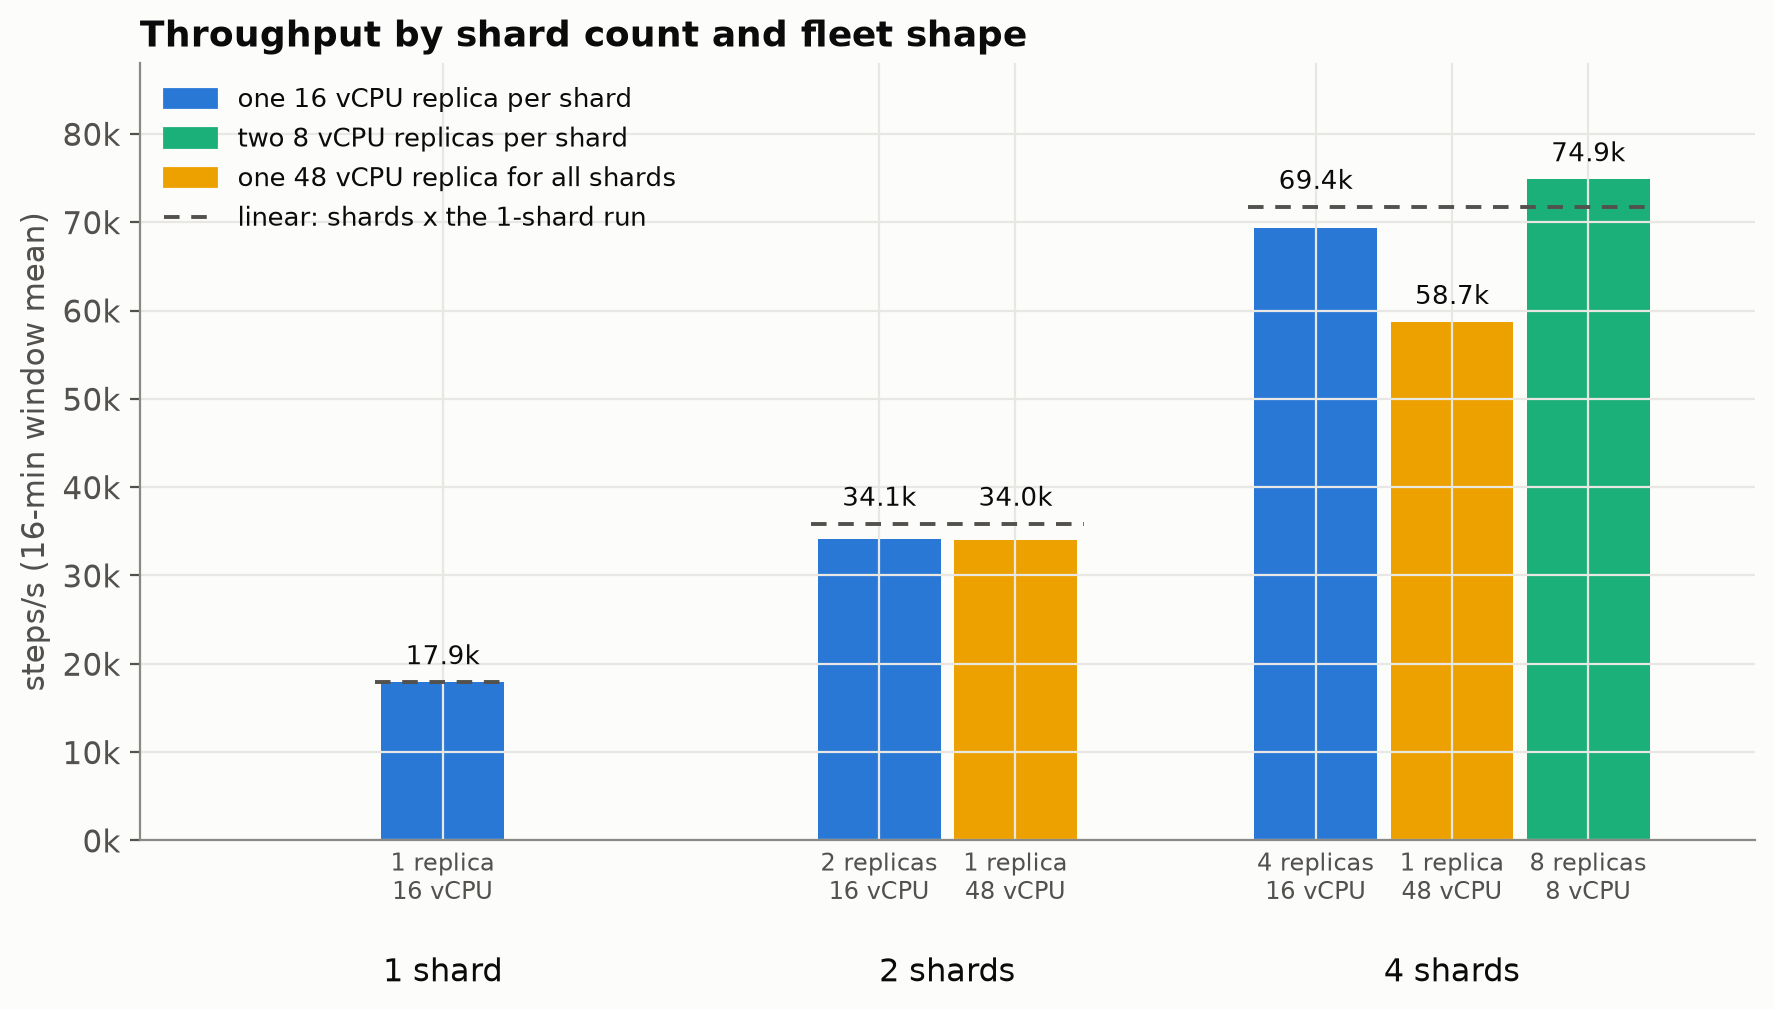
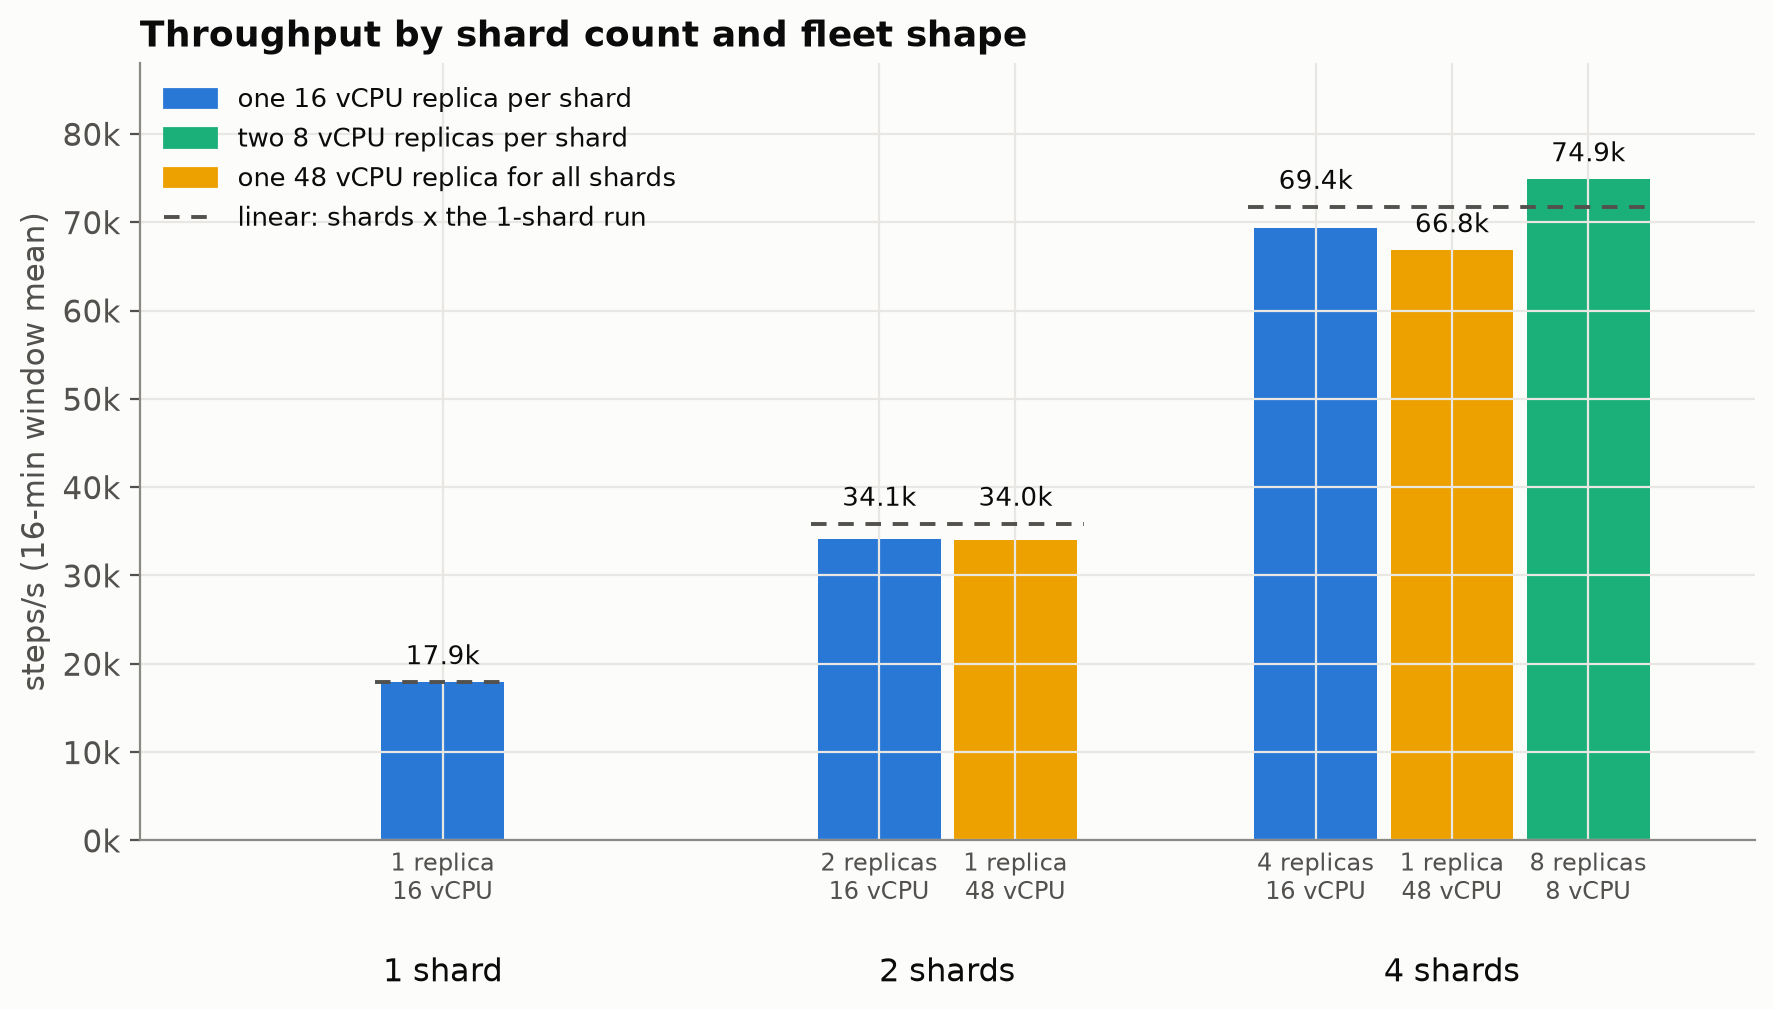
docs: one engine serves four shards at their databases' pace
One 48 vCPU engine now runs four 32 vCPU shards at 66,843 steps/s, steady over
the window, on 20 of its cores, where it had stopped at 58,719 below database
saturation. The benchmark page and deployment's reference configurations
drop the "add replicas rather than a bigger host" advice for a sizing rule: an
engine core per ~3,300 steps/s its shards can deliver, and GOMAXPROCS capped
to that on a large host, since Go's garbage collection takes a larger share
of CPU the more cores it may use. GOGC is mentioned with its one measurement,
on an earlier build.

The shards and engine-host charts carry the new 4-shard point; the engine-host
chart drops the 2-shard 48 vCPU point measured before the worker-routing fix.
Known gaps swap the single-engine cap for the unmeasured GOMAXPROCS cap.

Measured 2026-10-12 on 751647e (rig N): every shard at 16,700 steps/s, the
slowest database pacing the rest through the load generator's shared cap.

Changed region(s): [[0.7751, 0.2151, 0.8681, 0.338]]

diff --git a/bench/charts_cloud.py b/bench/charts_cloud.py
@@ -94,7 +94,7 @@ ONE_SHARD = 17938
 SHARD_GROUPS = [  # (shards, [(steps/s, tick label, colour)])
     (1, [(17938, "1 replica\n16 vCPU", S1)]),
     (2, [(34115, "2 replicas\n16 vCPU", S1), (34049, "1 replica\n48 vCPU", S3)]),
-    (4, [(69382, "4 replicas\n16 vCPU", S1), (58719, "1 replica\n48 vCPU", S3), (74879, "8 replicas\n8 vCPU", S2)]),
+    (4, [(69382, "4 replicas\n16 vCPU", S1), (66843, "1 replica\n48 vCPU", S3), (74879, "8 replicas\n8 vCPU", S2)]),
 ]
 
 
@@ -139,7 +139,7 @@ ENGINE_HOSTS = [
     (16, 17502, 5.32, 11.3), (16, 32564, 10.3, 11.7),
     (8, 8455, 2.47, 14.6), (8, 9684, 2.97, 10.8), (8, 9770, 2.83, 11.4), (8, 9762, 2.86, 11.0),
     (8, 9491, 2.86, 11.0), (8, 9545, 2.87, 10.8), (8, 9837, 2.75, 11.4), (8, 8385, 2.33, 11.2),
-    (48, 34049, 14.79, 20.2), (48, 58696, 20.05, 22.3),
+    (48, 66843, 20.0, 21.3),
     (2, 2010, 0.71, 10.7), (4, 3816, 1.27, 11.1), (2, 2049, 0.7, 9.7), (4, 3892, 1.32, 10.1),
 ]
 

diff --git a/docs/benchmark-cloud.md b/docs/benchmark-cloud.md
@@ -25,8 +25,9 @@
   paused for ~40 s, standby replicas took over, and every flow completed.
 - **Keep the engine near its database.** A step makes about five round trips, so distance costs throughput;
   the engine opens more connections as distance grows, which recovers most of it out to 1 ms.
-- **Prefer more, smaller engine hosts.** One engine serves up to two shards at full speed; past that, add
-  replicas. On a 48 vCPU host the engine spends up to 40% more CPU per step than on 8 or 16 vCPU hosts.
+- **One large engine host can serve several shards.** One 48 vCPU engine ran four 32 vCPU shards at their
+  databases' pace on 20 of its cores. Size its CPU from what the shards can deliver, and on a large host cap
+  `GOMAXPROCS` to that: garbage collection takes about twice the share of CPU on 48 vCPU as on 2–16.
 
 [Sizing a deployment](#sizing-a-deployment) turns these into a recipe.
 
@@ -146,14 +147,19 @@ The same shard counts, served by a single replica:
 |---|---|---|---|---|
 | 2 | 16 vCPU | 32,564 | 10.3 of 16 cores | saturated |
 | 2 | 48 vCPU | 34,049 | 14.8 of 48 cores | saturated |
-| 4 | 48 vCPU | **58,719 (×3.27)** | 20.1 of 48 cores | below saturation |
+| 4 | 48 vCPU | **66,843 (×3.73)** | 20.0 of 48 cores | slowest saturated |
 
 - **One engine serves two shards at full speed**, even on a 16 vCPU host, with a third of its CPU to
   spare.
-- **At four shards one engine is the limit.** It delivered 58,719 steps/s while the databases ran below
-  saturation and the host had more than half its CPU free. It started near 67,000 and settled about 17%
-  lower over the window. Four replicas on the same four shards ran 69,382, and eight ran 74,879. Beyond
-  two shards per replica, add replicas rather than a bigger host.
+- **One engine runs four shards at their databases' pace.** It delivered 66,843 steps/s, steady from
+  minute to minute, with 28 of its 48 cores idle. Four replicas on four shards ran 69,382 and eight ran 74,879,
+  each on its own set of instances; the gap is within the spread between instances of one size.
+- **The slowest database set every shard's pace in this run.** All four ran at 16,700 steps/s, because
+  the load generator places flows evenly and caps flows in flight across all shards: the slowest shard's
+  flows stay in flight longest and fill that shared cap. Shards whose databases ran faster sat with free
+  capacity. The same holds for any caller that limits its own concurrency across shards.
+
+*(The four-shard row measured 2026-10-12; the two-shard rows 2026-10-10, on an earlier engine build.)*
 
 ## Replicas: availability without a throughput cost
 
@@ -207,13 +213,18 @@ The same rule scales down: two engines at half the database's vCPU (see
 | 4 vCPU | 2 replicas on a 16 vCPU database | 2,950–3,000 | 10–11% |
 | 8 vCPU | 8 replicas on 4 shards | 3,250–3,600 | 11–15% |
 | 16 vCPU | 1 or 2 shards per replica | 3,150–3,300 | 11–12% |
-| 48 vCPU | 1 replica on 2 and 4 shards | 2,300–2,950 | 20–22% |
+| 48 vCPU | 1 replica on 4 shards | 3,350 | 21% |
 
-- **The database is the limit at the sizes we recommend.** An engine host from 2 to 16 vCPU runs at about a
-  third of its CPU while its database is saturated.
-- **A large host costs more per step.** On a 48 vCPU host the engine's garbage collection takes about
-  twice the share it takes on 2 to 16 vCPU, at the same load: one replica serving two shards spent 14.8
-  cores on a 48 vCPU host and 10.3 on a 16 vCPU host for the same throughput.
+- **The database is the limit.** An engine host from 2 to 16 vCPU runs at about a third of its CPU while
+  its database is saturated, and a 48 vCPU host serving four shards at under half.
+- **Steps per core hardly depend on the host's size; garbage collection's share does.** On a 48 vCPU host
+  the engine's garbage collection takes about twice the share of CPU it takes on 2 to 16 vCPU. Go sizes
+  its runtime to every core it may use, and the collector's cost grows with that count, so on a large
+  host set `GOMAXPROCS` to the cores the engine needs rather than the whole host (see
+  [Sizing a deployment](#sizing-a-deployment)). Raising `GOGC` above its default of 100 makes the
+  collector run less often at the price of memory: on an earlier build, `GOGC=400` on a 48 vCPU host cut
+  garbage collection from about a fifth of the engine's CPU to about a twentieth. It has not been
+  measured on the current build.
 
 These figures are the engine's own cost. Your tasks run on the same hosts and need their own headroom.
 
@@ -373,7 +384,11 @@ The budget of 250 connections per shard is measured, not guessed.
    worth, a 16 vCPU database (~7,000 settled) or an 8 vCPU database (~3,600) costs less, at a higher price
    per step.
 2. **Engine replicas.** Two per shard at half the database's vCPU: `2S` replicas of 8 vCPU for 32 vCPU
-   shards. Each runs at about a third of its CPU and can carry its shard alone.
+   shards. Each runs at about a third of its CPU and can carry its shard alone. A larger host can serve
+   several shards instead: give its engine about one core per 3,300 steps/s its shards can deliver at
+   most - four 32 vCPU shards, ~20–24 cores - and set `GOMAXPROCS` to that plus whatever your tasks use
+   in the same process, rather than leaving it at the host's full count. Run at least two such hosts, so
+   one can fail.
 3. **Your tasks.** Add the CPU and memory your tasks use on the engine hosts. The engine itself holds ~15 KB
    per flow in flight; with long tasks, flows in flight = flows/s × flow duration.
 4. **Distance.** Put the engine in its database's zone. Up to 1 ms the budget compensates; past it, plan for
@@ -425,7 +440,8 @@ to 512 GB. Until then, earlier measurements on 8 vCPU databases with 500 GB disk
 
 ## Known gaps
 
-- **One engine process caps below four saturated shards** (~59,000 steps/s on a 48 vCPU host). Add replicas.
+- **A capped `GOMAXPROCS` on a large host** is not measured: how much engine CPU it saves, and where the cap
+  starts to cost throughput.
 - **Only PostgreSQL on Google Cloud is measured here.** MySQL and SQL Server ceilings at the default budget
   are not, nor other clouds or regions.
 - **Mixed task durations on one engine** (fast lookups beside minute-long calls) are not measured; each run

diff --git a/docs/deployment.md b/docs/deployment.md
@@ -333,6 +333,7 @@ fresh database, averaged over a 16-minute window. The full conditions are in the
 | 1 × 8 | 2 × 2 vCPU | 4,041 |
 | 1 × 16 | 2 × 4 vCPU | 7,675 |
 | 1 × 32 | 1 × 16 vCPU | 17,938 |
+| 4 × 32 | 1 × 48 vCPU | 66,843 |
 | 4 × 32 | 4 × 16 vCPU | 69,382 |
 | 4 × 32 | 8 × 8 vCPU | 74,879 |
 
@@ -342,6 +343,10 @@ How to read it:
   32-vCPU database at ~16,000 steps/s: its settled rate less room to catch up after a failover or a spike.
 - **Give each shard two engine replicas at half its vCPU.** Each runs at about a third of its CPU and can
   carry the shard alone. Replicas beyond two per shard add standby capacity, not database throughput.
+- **Or serve several shards from a larger host, with `GOMAXPROCS` capped.** Plan the engine at about one
+  core per 3,300 steps/s its shards can deliver at most, and set `GOMAXPROCS` to that plus your in-process
+  tasks' share rather than the host's full core count: Go's garbage collection costs a larger share of CPU
+  the more cores it may use. Run at least two such hosts so one can fail.
 - **Shard past 32 vCPU.** A 64-vCPU database bought +22% for 1.9 times the price; four 32-vCPU shards ran
   3.9–4.2 times one.
 - **Disk IOPS scale with disk size on most managed databases.** A 100 GB disk (~3,000 IOPS) throttles a
